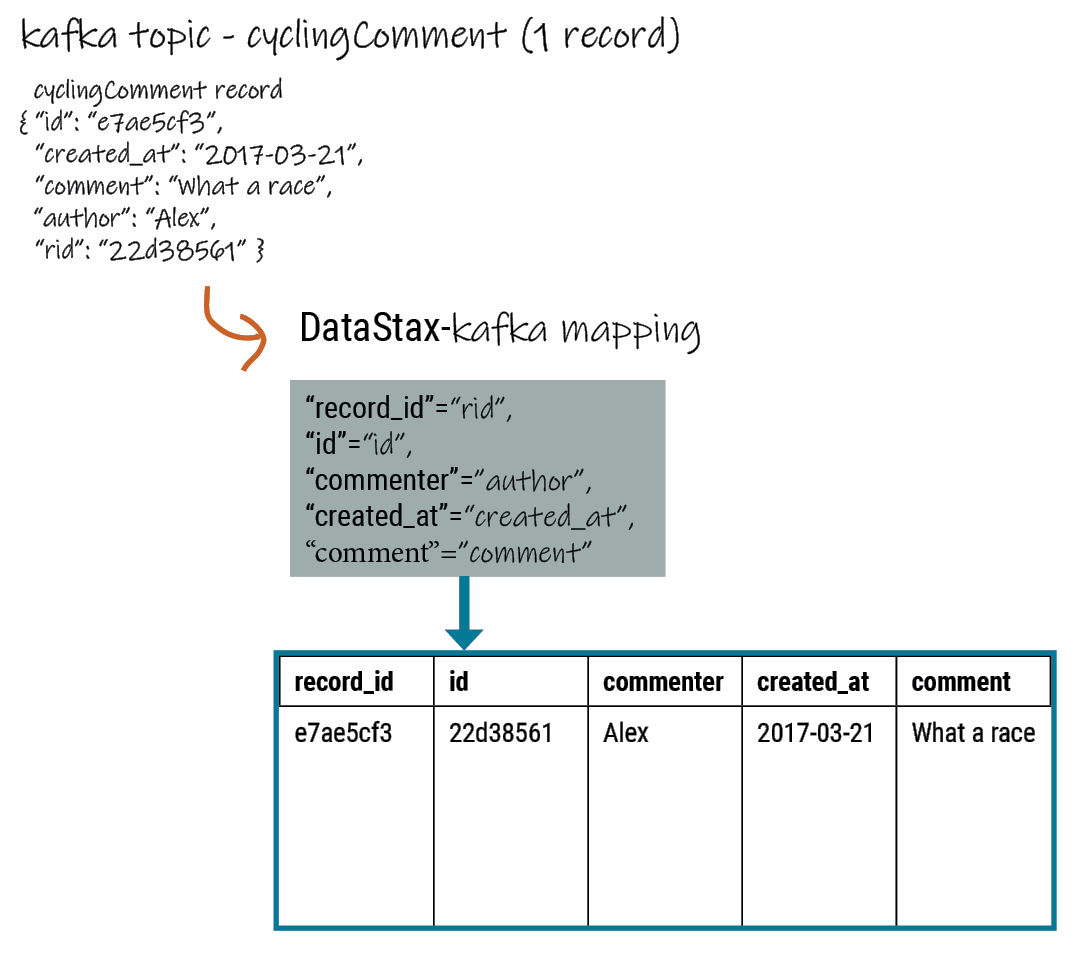
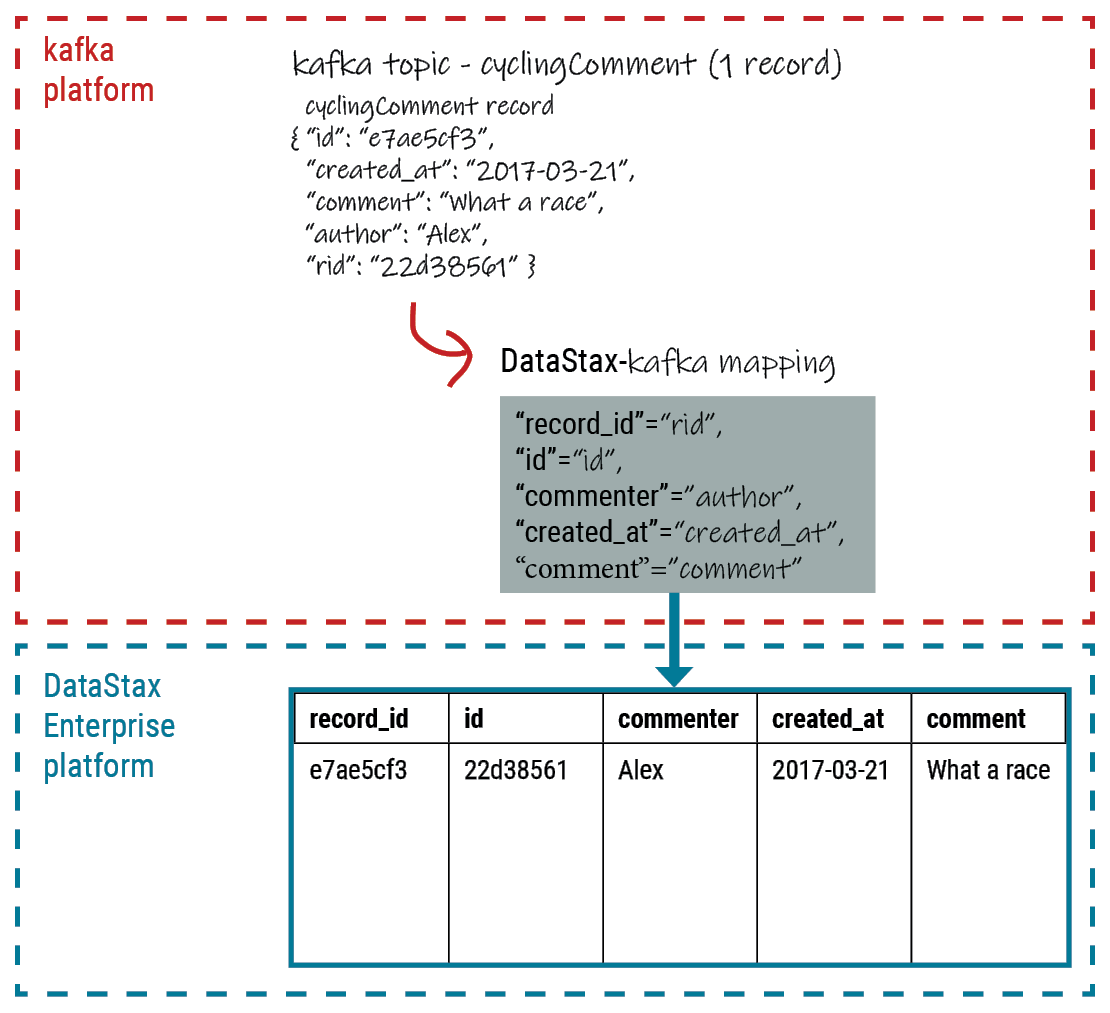
Add cycling example image

diff --git a/docs/cycling-comments-example.md b/docs/cycling-comments-example.md
@@ -12,6 +12,8 @@ The cycling comments example provides a step-by-step implementation for test or 
 
 The example maps JSON records from the `CyclingComments` Kafka topic into the `cycling.comments` table.
 
+![Kafka topic to table mapping](images/kafkaTopicToTable.png)
+
 > [!IMPORTANT]
 > This example is intended for local test or demonstration environments. Adjust paths, logging, security settings, and connection properties before using it in shared or production environments.
 
